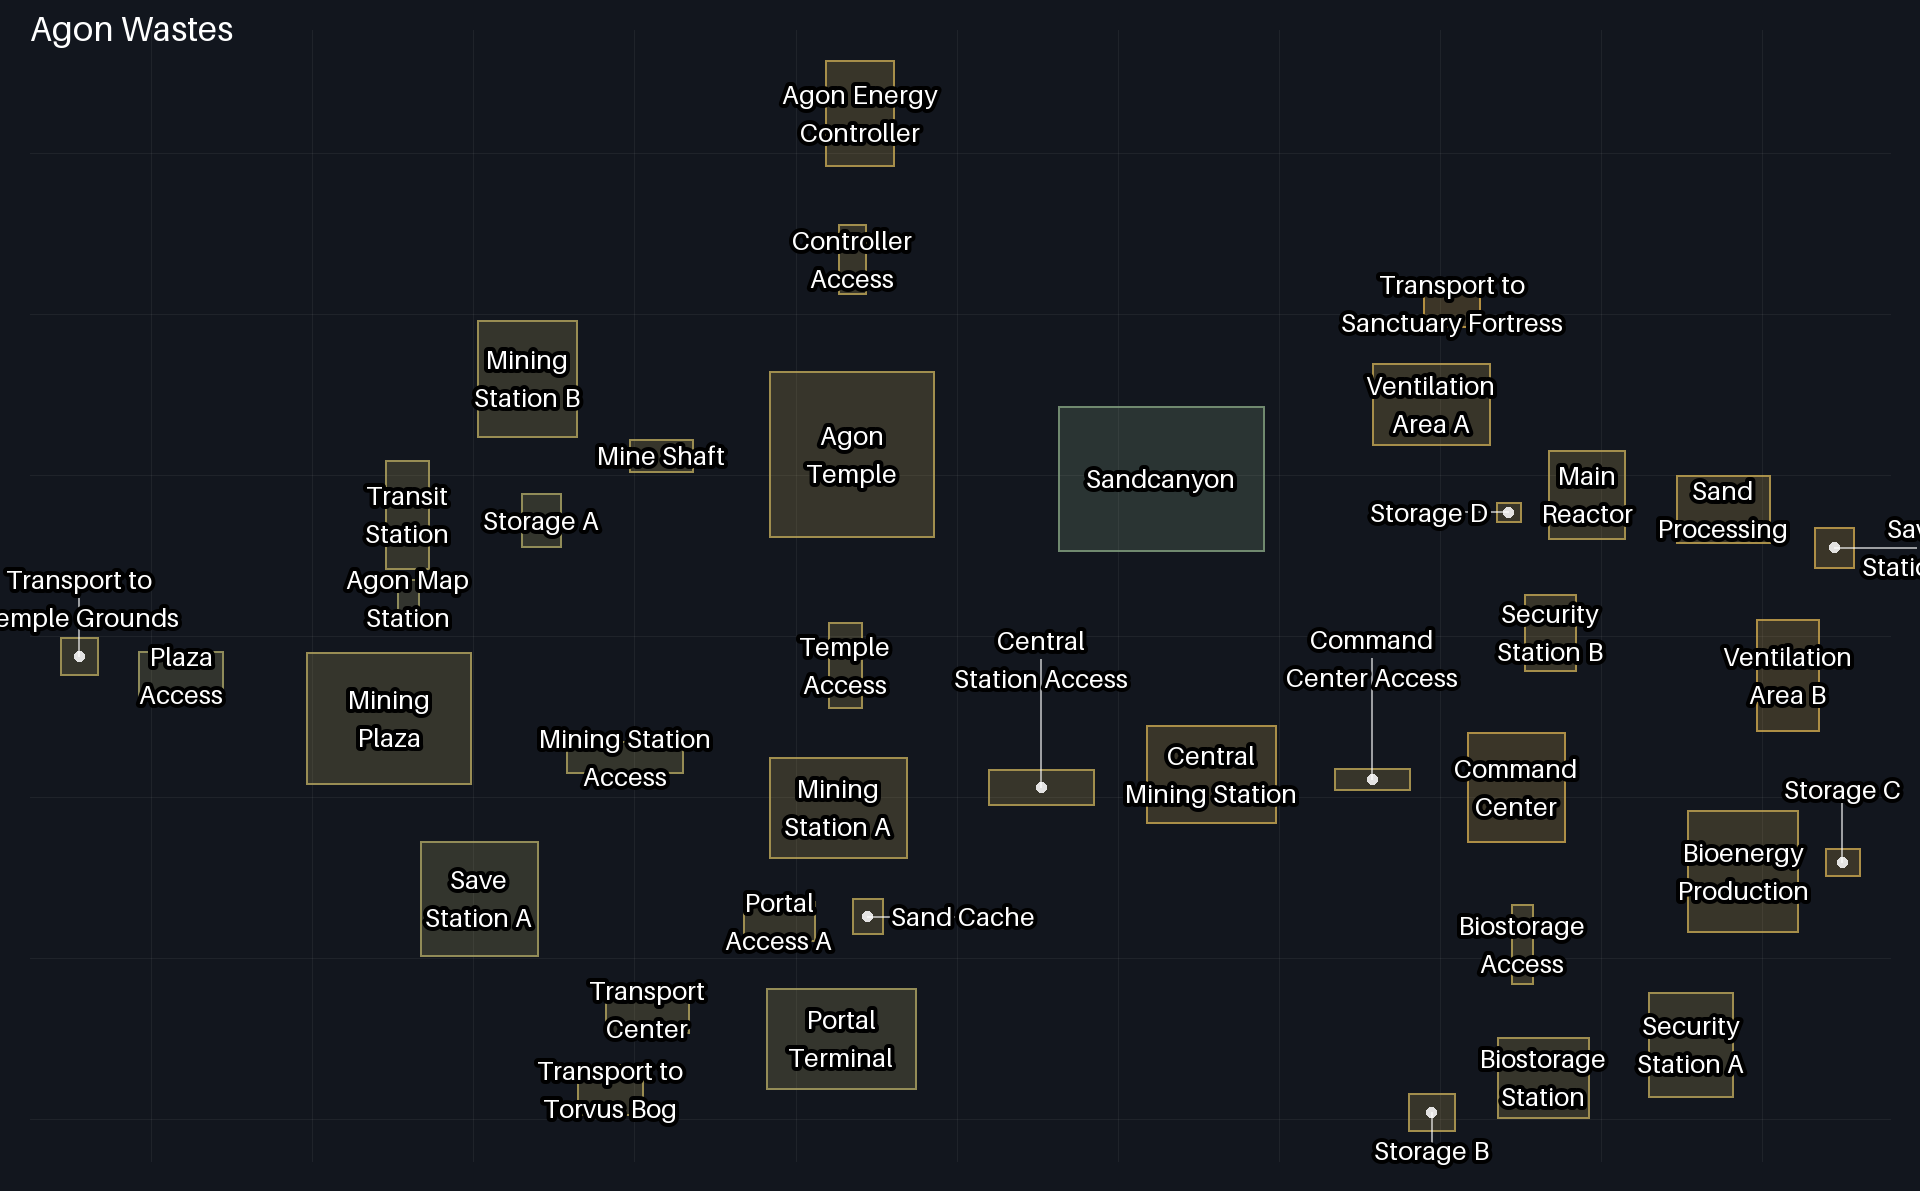
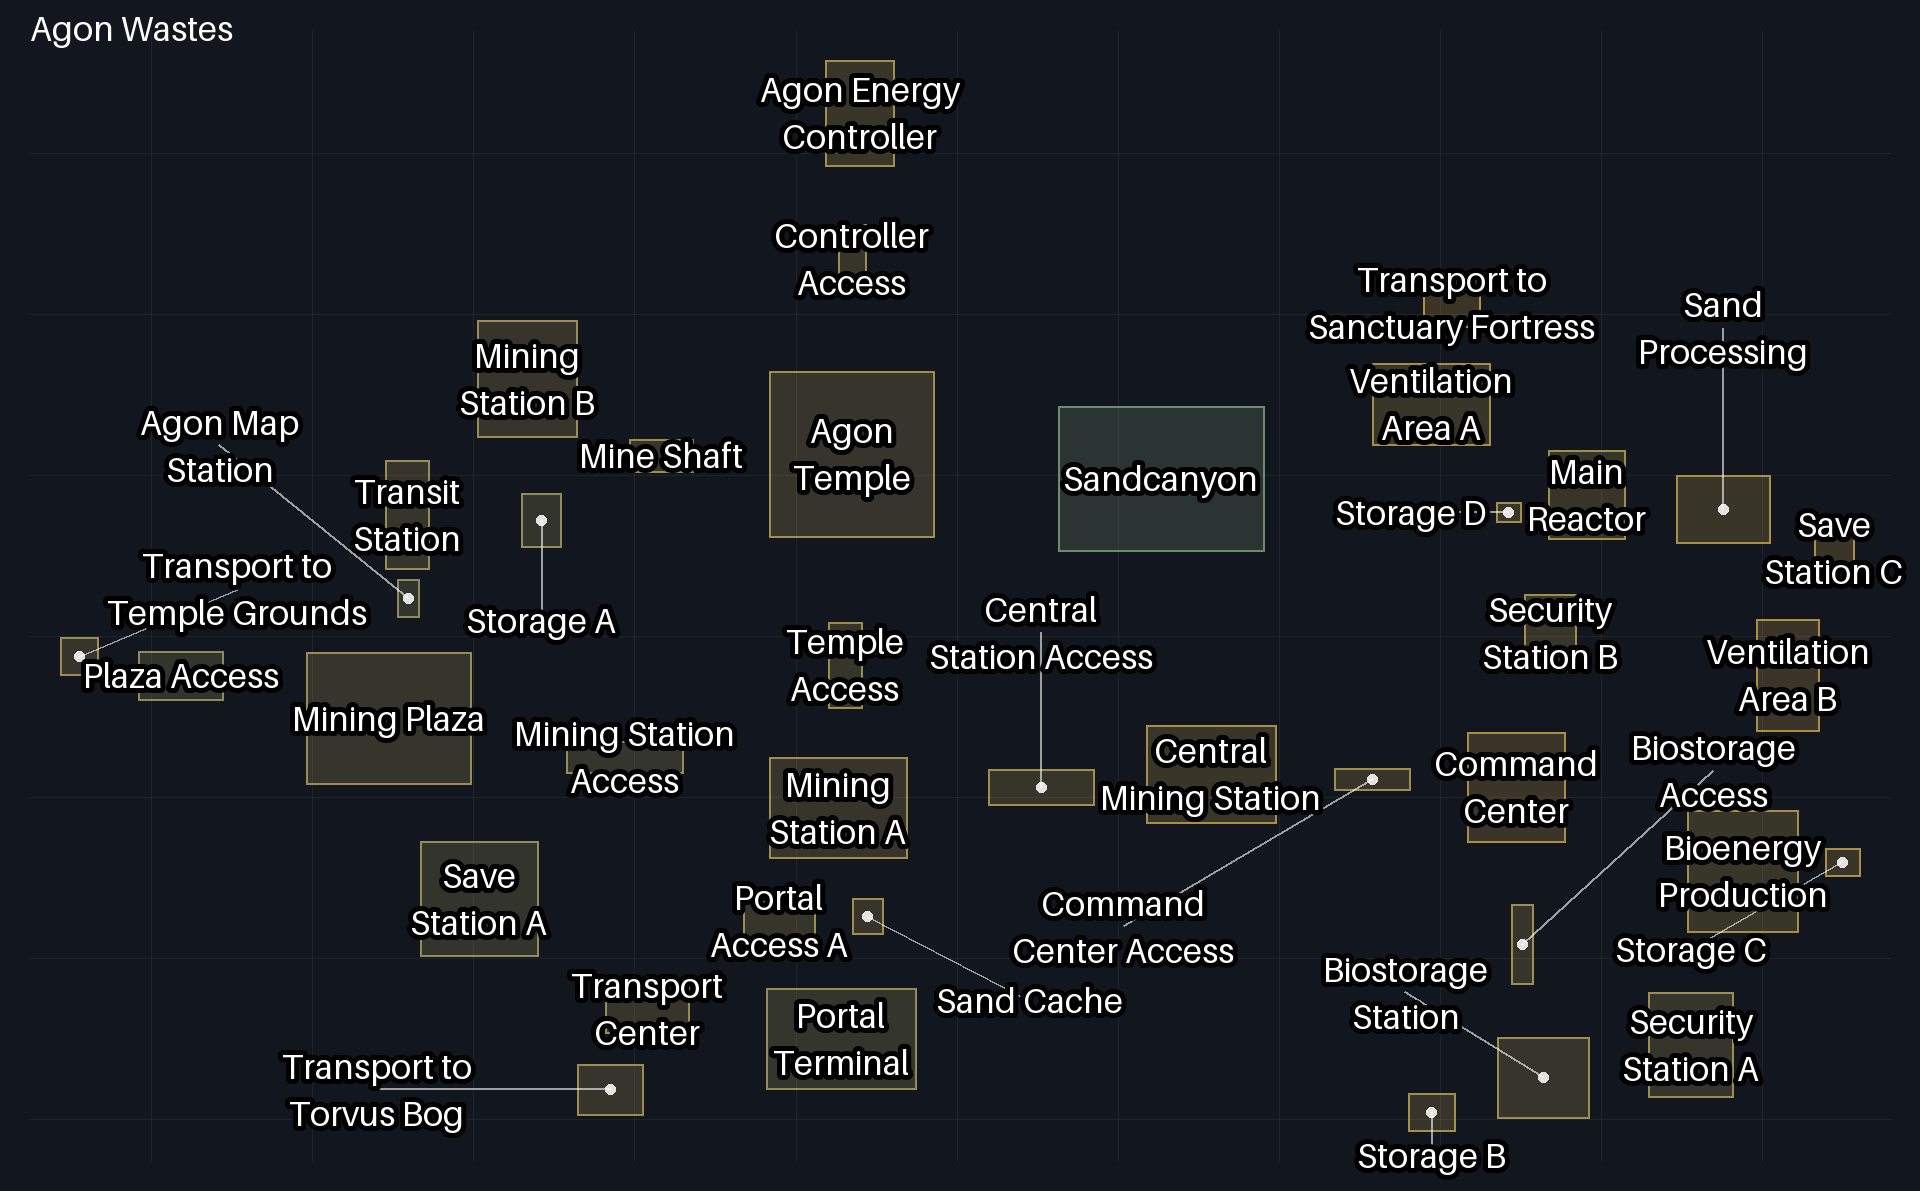
more tracker improvements

diff --git a/metroidprime2/client/item_panel.py b/metroidprime2/client/item_panel.py
@@ -220,12 +220,42 @@ def required_width_dp() -> int:
     return 2 * PANEL_PADDING_DP + (children - 1) * PANEL_SPACING_DP + counters + UPGRADES_GAP_DP + upgrades
 
 
+TOOLTIP_GAP_DP = 8
+TOOLTIP_MARGIN_DP = 10
+
+
+def tooltip_position(
+    mouse_pos: tuple[float, float],
+    tooltip_size: tuple[float, float],
+    window_size: tuple[float, float],
+    gap: float,
+    margin: float,
+) -> tuple[float, float]:
+    """Bottom-left corner for a tooltip centered right above the mouse
+    (kivy coordinates: origin bottom-left, y up), kept ``margin`` inside the
+    window. Flips below the mouse when there is no room above."""
+    mouse_x, mouse_y = mouse_pos
+    width, height = tooltip_size
+    window_width, window_height = window_size
+
+    x = min(mouse_x - width / 2, window_width - width - margin)
+    x = max(x, margin)
+
+    y = mouse_y + gap
+    if y + height > window_height - margin:
+        y = mouse_y - gap - height
+    y = max(y, margin)
+    return x, y
+
+
 def _hover_image_class() -> type:
     """FitImage that shows a tooltip while hovered (same HoverBehavior +
-    MDTooltip combination kvui's ServerLabel uses). Built lazily because
-    kivy can only be imported once kvui has set it up."""
+    MDTooltip combination kvui's ServerLabel uses), placed right above the
+    mouse. Built lazily because kivy can only be imported once kvui has set
+    it up."""
     global _HoverImage
     if _HoverImage is None:
+        from kivy.clock import Clock
         from kivymd.uix.fitimage import FitImage
         from kivymd.uix.tooltip import MDTooltip
         from kvui import HoverBehavior, ToolTip
@@ -236,6 +266,30 @@ def _hover_image_class() -> type:
             def __init__(self, tooltip_text: str, **kwargs: Any) -> None:
                 super().__init__(**kwargs)
                 self._tooltip = ToolTip(text=tooltip_text)
+
+            def adjust_tooltip_position(self) -> tuple[float, float]:
+                # MDTooltip anchors to the widget (and was landing mid-screen
+                # here); anchor to the mouse instead.
+                from kivy.core.window import Window
+                from kivy.metrics import dp
+
+                return tooltip_position(
+                    Window.mouse_pos,
+                    self._tooltip.size,
+                    Window.size,
+                    dp(TOOLTIP_GAP_DP),
+                    dp(TOOLTIP_MARGIN_DP),
+                )
+
+            def display_tooltip(self, *args: Any) -> None:
+                super().display_tooltip(*args)
+                # The tooltip's size is only final once it has been laid out,
+                # a frame after it is added to the window.
+                Clock.schedule_once(self._reposition_tooltip, 0)
+
+            def _reposition_tooltip(self, *_args: Any) -> None:
+                if self._tooltip is not None and self._tooltip.parent is not None:
+                    self._tooltip.pos = self.adjust_tooltip_position()
 
             def on_enter(self) -> None:
                 self.display_tooltip()

diff --git a/metroidprime2/tools/make_tracker_map.py b/metroidprime2/tools/make_tracker_map.py
@@ -52,8 +52,8 @@ PADDING = 60
 ROOM_SHRINK = 0.6
 ROOM_MIN_HALF = 5.0
 ROOM_GAP = 6.0
-LABEL_FONT_SIZE = 26
-LABEL_STROKE = 4
+LABEL_FONT_SIZE = 34
+LABEL_STROKE = 5
 LOCATION_SIZE = 26
 LOCATION_BORDER = 3
 
@@ -205,18 +205,22 @@ def _balanced_label(draw: ImageDraw.ImageDraw, text: str, font: ImageFont.FreeTy
     """One line if the name is short, otherwise split into two lines of as
     even a width as possible."""
     words = text.split()
-    if len(words) < 2 or draw.textlength(text, font=font) <= 150:
+    if len(words) < 2 or draw.textlength(text, font=font) <= 200:
         return text
     candidates = [" ".join(words[:i]) + "\n" + " ".join(words[i:]) for i in range(1, len(words))]
     return min(candidates, key=lambda c: max(draw.textlength(line, font=font) for line in c.split("\n")))
 
 
 def _place_labels(
-    draw: ImageDraw.ImageDraw, rooms: list[tuple[str, tuple[int, int, int, int]]], font: ImageFont.FreeTypeFont
+    draw: ImageDraw.ImageDraw,
+    rooms: list[tuple[str, tuple[int, int, int, int]]],
+    font: ImageFont.FreeTypeFont,
+    image_size: tuple[int, int],
 ) -> list[tuple[str, str, tuple[float, float]]]:
     """Picks a label position per room (centered in the room if it fits
     without touching another label, otherwise just outside one of its
-    sides), largest rooms first so they keep the center spots."""
+    sides), largest rooms first so they keep the center spots. A label that
+    would run off the image (and be clipped) is the costliest of all."""
     placed: list[tuple[float, float, float, float]] = []
     result: list[tuple[str, str, tuple[float, float]]] = []
 
@@ -259,7 +263,8 @@ def _place_labels(
             # makes the label look like that room's, so it costs too; and
             # the farther from its own room, the less obviously its own.
             distance = abs(c[0] - cx) + abs(c[1] - cy)
-            return 20 * overlap(box, placed) + overlap(box, foreign) + 8 * distance
+            clipped = w * h - overlap(box, [(0, 0, *image_size)])
+            return 100 * clipped + 20 * overlap(box, placed) + overlap(box, foreign) + 8 * distance
 
         best = min(candidates, key=cost)
         placed.append((best[0] - w / 2, best[1] - h / 2, best[0] + w / 2, best[1] + h / 2))
@@ -303,7 +308,7 @@ def draw_map(region: str, areas: dict[str, dict], projection: Projection) -> Ima
     # Labels go in a pass of their own, on top of every room and outlined, so
     # a neighbour's fill can never hide one. A label that had to leave its
     # room is tied back to it with a leader line (drawn first, under all text).
-    placed = _place_labels(draw, rooms, label_font)
+    placed = _place_labels(draw, rooms, label_font, image.size)
     room_boxes = dict(rooms)
     for name, _, position in placed:
         x0, y0, x1, y1 = room_boxes[name]

diff --git a/metroidprime2/test/test_item_panel.py b/metroidprime2/test/test_item_panel.py
@@ -8,7 +8,7 @@ import unittest
 from pathlib import Path
 
 from .. import constants
-from ..client.item_panel import COUNTER_NAMES, COUNTERS, UPGRADES, compute_panel_state
+from ..client.item_panel import COUNTER_NAMES, COUNTERS, UPGRADES, compute_panel_state, tooltip_position
 from ..items import ITEM_TABLE
 
 ASSETS = Path(__file__).resolve().parents[1] / "assets" / "items"
@@ -137,6 +137,27 @@ class TestComputePanelState(unittest.TestCase):
 
 
 @unittest.skipUnless(importlib.util.find_spec("kivymd") is not None, "kivymd not installed")
+class TestTooltipPosition(unittest.TestCase):
+    WINDOW = (1000.0, 800.0)
+
+    def _position(self, mouse: tuple[float, float]) -> tuple[float, float]:
+        return tooltip_position(mouse, (100.0, 40.0), self.WINDOW, gap=8.0, margin=10.0)
+
+    def test_centered_right_above_the_mouse(self) -> None:
+        self.assertEqual((450.0, 308.0), self._position((500.0, 300.0)))
+
+    def test_clamped_to_the_left_and_right_edges(self) -> None:
+        self.assertEqual(10.0, self._position((5.0, 300.0))[0])
+        self.assertEqual(1000.0 - 100.0 - 10.0, self._position((995.0, 300.0))[0])
+
+    def test_flips_below_the_mouse_when_there_is_no_room_above(self) -> None:
+        # 790 + 8 + 40 would overflow the 800-high window (10 margin).
+        self.assertEqual(790.0 - 8.0 - 40.0, self._position((500.0, 790.0))[1])
+
+    def test_never_below_the_bottom_margin(self) -> None:
+        self.assertEqual(10.0, self._position((500.0, 0.0))[1])
+
+
 class TestKivyPanel(unittest.TestCase):
     def test_builds_and_updates_headless(self) -> None:
         # kivy's "mock" GL backend lets widgets and textures build without a
